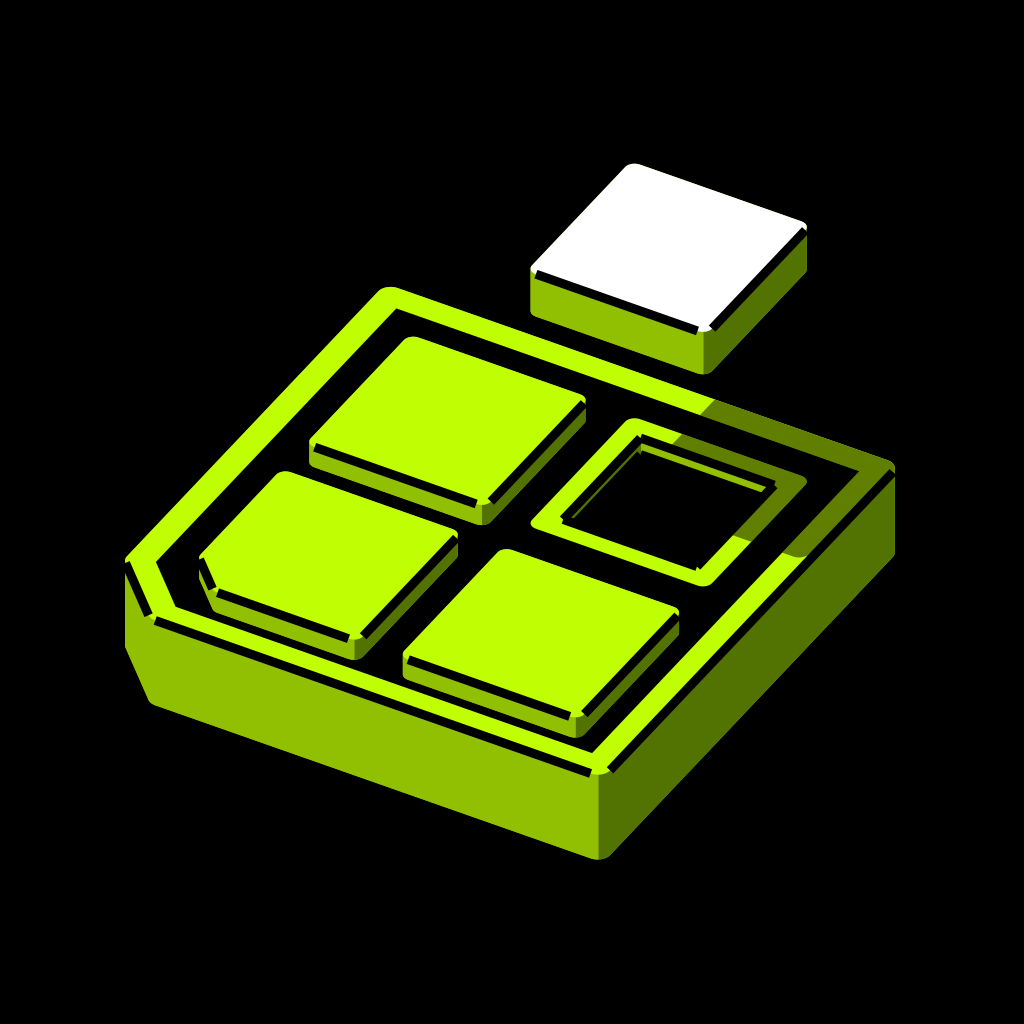
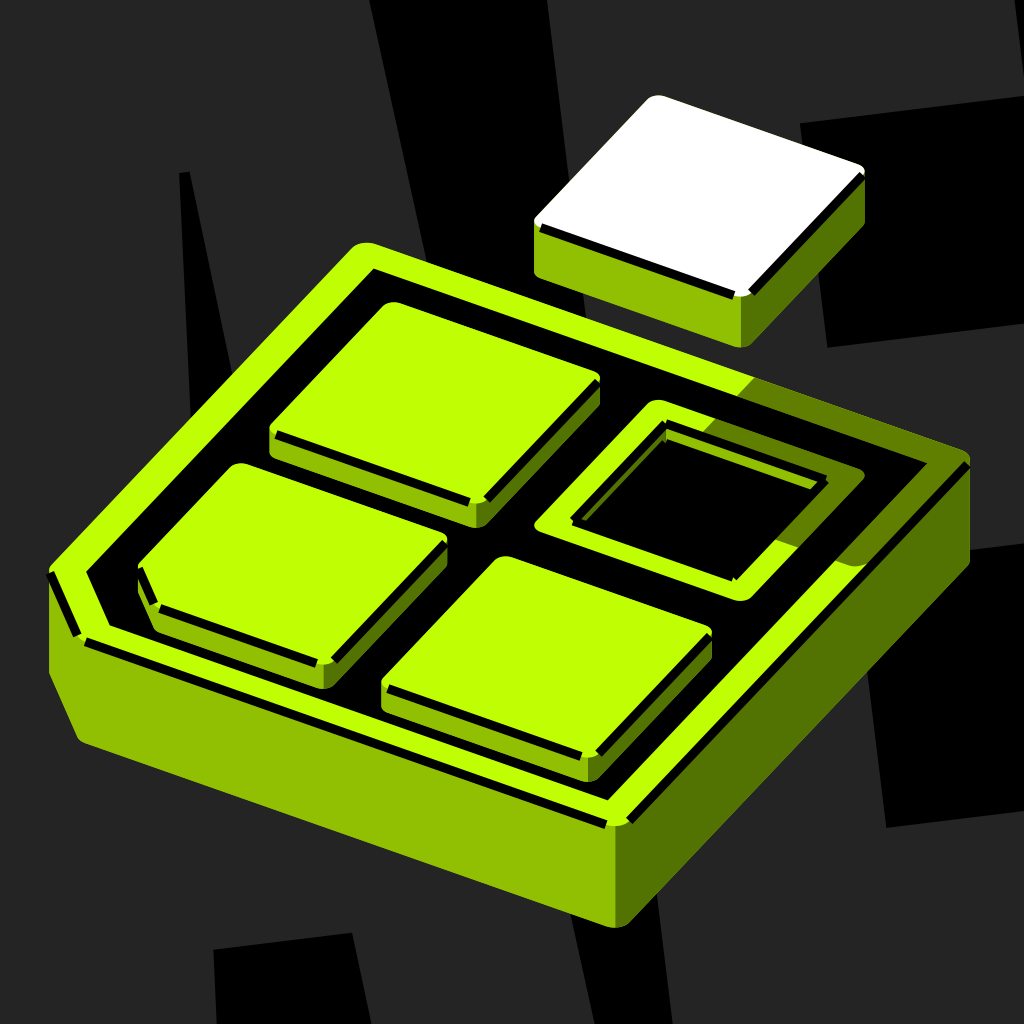
Update AE launcher artwork for 1.2.1

diff --git a/app/src/main/java/app/appextractor/MainActivity.kt b/app/src/main/java/app/appextractor/MainActivity.kt
@@ -353,7 +353,7 @@ private fun SettingsScreen(state: ExtractorState, model: ExtractorViewModel, sna
     }) { insets ->
         Box(Modifier.fillMaxSize().padding(insets), contentAlignment = Alignment.TopCenter) {
             LazyColumn(Modifier.widthIn(max = 720.dp).fillMaxSize(), contentPadding = PaddingValues(bottom = 28.dp)) {
-                item { PageHeading("SETTINGS", "设置与帮助", "V 1.2.0") }
+                item { PageHeading("SETTINGS", "设置与帮助", "V 1.2.1") }
                 item {
                     Column(Modifier.padding(20.dp)) {
                         SectionLabel("01", "导出位置")
@@ -421,7 +421,7 @@ private fun SettingsScreen(state: ExtractorState, model: ExtractorViewModel, sna
                             }
                         }
                         Spacer(Modifier.height(20.dp))
-                        Text("APPExtractor / 1.2.0", style = MaterialTheme.typography.labelSmall, color = colors.onSurfaceVariant)
+                        Text("APPExtractor / 1.2.1", style = MaterialTheme.typography.labelSmall, color = colors.onSurfaceVariant)
                     }
                 }
             }

diff --git a/scripts/prepare_launcher_icon.py b/scripts/prepare_launcher_icon.py
@@ -14,20 +14,20 @@ from pathlib import Path
 
 ROOT = Path(__file__).resolve().parents[1]
 SCALES = {"mdpi": 1, "hdpi": 1.5, "xhdpi": 2, "xxhdpi": 3, "xxxhdpi": 4}
-BACKGROUND = (0, 0, 0)
+BACKGROUND = (36, 36, 36)
 LAYER_DP = 108
 SAFE_RADIUS_DP = 33
 MARGIN_DP = 2
 
 
 def subject_radius(image) -> float:
-    """Farthest visible nonblack source pixel, including antialiasing."""
+    """Farthest lime/white subject pixel; dark grayscale artwork is background."""
     radius = 0.0
     pixels = image.load()
     for y in range(image.height):
         for x in range(image.width):
             r, g, b, alpha = pixels[x, y]
-            if alpha and max(r, g, b):
+            if alpha and ((g > r + 8 and g > b + 8) or (min(r, g, b) > 128 and max(r, g, b) - min(r, g, b) < 24)):
                 radius = max(radius, math.hypot(x + 0.5 - image.width / 2, y + 0.5 - image.height / 2))
     return radius
 
@@ -49,8 +49,8 @@ def prepare(source: Path, preview: bool = False, preview_dir: Path | None = None
 
     source_radius = subject_radius(artwork)
     if not source_radius:
-        raise ValueError("The supplied image has no visible nonblack artwork")
-    # The complete nonblack subject fits the guaranteed 66dp circular safe zone.
+        raise ValueError("The supplied image has no visible lime/white subject")
+    # The complete lime/white subject fits the guaranteed 66dp circular safe zone.
     # Round down to an even size so every density centers on whole pixels.
     artwork_dp = math.floor(min(LAYER_DP, (SAFE_RADIUS_DP - MARGIN_DP) * artwork.width / source_radius) / 2) * 2
     if artwork_dp < 2:
@@ -66,7 +66,7 @@ def prepare(source: Path, preview: bool = False, preview_dir: Path | None = None
         offset = (canvas_size - artwork_size) // 2
         foreground.alpha_composite(resized, (offset, offset))
         radius = subject_radius(foreground) / scale
-        assert radius < SAFE_RADIUS_DP, f"{density}: nonblack pixels must stay inside the safe circle"
+        assert radius < SAFE_RADIUS_DP, f"{density}: lime/white subject must stay inside the safe circle"
         target = resources / ("mipmap-" + density) / "ic_launcher_artwork.png"
         target.parent.mkdir(parents=True, exist_ok=True)
         foreground.save(target, optimize=True)
@@ -76,7 +76,7 @@ def prepare(source: Path, preview: bool = False, preview_dir: Path | None = None
         print(f"{target.relative_to(ROOT)}: {canvas_size}x{canvas_size}")
 
     if preview:
-        output_dir = preview_dir or ROOT / ".test-data" / "qa" / "v1.2.0"
+        output_dir = preview_dir or ROOT / ".test-data" / "qa" / "v1.2.1"
         output_dir.mkdir(parents=True, exist_ok=True)
         # Preview the normal 72dp visible mask, without changing source artwork.
         visible_size = 576
@@ -101,7 +101,8 @@ def prepare(source: Path, preview: bool = False, preview_dir: Path | None = None
         report = {"sourceSha256": hashlib.sha256(source_bytes).hexdigest(), "sourceSize": list(artwork.size),
                   "sourceSubjectRadiusPixels": source_radius, "artworkDp": artwork_dp,
                   "safeCircleDiameterDp": SAFE_RADIUS_DP * 2, "sourceCopiedExactly": True,
-                  "wholeImageUniformlyScaled": True, "densityChecks": checks}
+                  "wholeImageUniformlyScaled": True, "backgroundColor": "#242424",
+                  "criticalSubject": "lime and white; grayscale decoration remains in the whole image", "densityChecks": checks}
         (output_dir / "icon-verification.json").write_text(json.dumps(report, indent=2), encoding="utf-8")
         print(output_dir)
 

diff --git a/docs/QA.md b/docs/QA.md
@@ -1,16 +1,12 @@
-# APPExtractor 1.2.0 验证
+# APPExtractor 1.2.1 验证
 
-发布包：`APPExtractor-1.2.0.apk`，1,427,798 字节。
+发布包：`APPExtractor-1.2.1.apk`，1,443,686 字节。
 
[2 lines of base64/hex data omitted]
 
-- 设置页顺序：导出位置、存储清理、格式与权限、外观主题；主题选项位于最下面。
-- 外观支持跟随系统、浅色、深色；手动模式优先于系统，切换立即生效，关闭重启后保留选择。
-- Android 10（API 29）与 Android 14（API 34）模拟器检查了手动主题与系统相反、跟随系统、重启保存和系统栏。
-- 最终包检查主题底部位置、切换及 320dp 窄屏／1.5 倍字体可达性。
-- 图标使用用户提供的原图，原件逐字节保留；整张图等比缩放至 76dp，居中置于 108dp 图层和纯黑背景上。
-- 五种密度主体均位于 66dp 安全圆内；圆形、圆角方形预览与实际桌面图标已目视检查，白色悬浮块与底座完整。
-- 覆盖安装与原签名一致，默认导出文件夹保留；单包导出与原 APK 内容一致，旧文件未覆盖。
-- 发布构建及 Lint 通过，0 个静态错误；模拟器未发现崩溃。
+- 图标改用用户提供的 `AE.png`，原件逐字节保留；整图等比缩放，保留灰阶装饰背景、荧光绿主体与白色悬浮块。
+- 关键主体位于 66dp 安全圆内，五种屏幕密度检查通过；圆形和圆角方形预览已目视确认完整。
+- Android 14（API 34）模拟器实际覆盖安装 1.2.0 → 1.2.1 成功，桌面应用列表显示新图标，主体完整。
+- 发布签名与旧版一致；发布构建和 Android Lint 通过，0 个静态错误。
 
-本机记录：`dist/verification-1.2.0.json`。图标说明见 [ICON.md](ICON.md)。
+本机记录：`dist/verification-1.2.1.json`。图标说明见 [ICON.md](ICON.md)。

diff --git a/docs/ICON.md b/docs/ICON.md
@@ -1,12 +1,12 @@
 # 启动图标
 
-1.2.0 使用用户提供的黑底荧光绿图案。原图保存在 `assets/app-icon.png`，逐字节保留。
+1.2.1 使用用户提供的 `AE.png`，包含荧光绿主体、白色悬浮块与灰阶装饰背景。原图保存在 `assets/app-icon.png`，逐字节保留。
 
[2 lines of base64/hex data omitted]
 
-图标仅等比缩放和居中，不切割主体或重新绘制。Android 自适应图标使用纯黑背景及 108dp 前景层；整张原图占 76dp。主体（包含白色悬浮块）位于中心直径 66dp 的安全圆内，适配圆形、圆角方形等桌面遮罩。
+仅对整张图片等比缩放和居中，不重新绘制。Android 自适应图标使用 `#242424` 背景及 108dp 前景层，整图占 64dp。荧光绿与白色主体均位于中心直径 66dp 的安全圆内；桌面遮罩仅影响装饰背景边角，主体完整保留。
 
-`scripts/prepare_launcher_icon.py` 根据所有非黑主体像素的最远距离计算缩放比例，并检查五种屏幕密度。运行时无需 Pillow 或其他额外依赖。
+`scripts/prepare_launcher_icon.py` 根据荧光绿和高亮白色像素的最远距离计算缩放比例，并检查五种屏幕密度。深灰／黑色装饰背景保留在原图中，不作为主体边界计算。运行时无需 Pillow 或其他额外依赖。
 
 重新生成资源和本机预览：
 
@@ -14,4 +14,4 @@ SHA-256：`b9f5819c28f90d09b0199aaf7c63eeea1ad51f029a20f98e05ce5b463949ad0a`
 python scripts/prepare_launcher_icon.py --preview
 ```
 
-生成脚本需要 Pillow。本机圆形和圆角方形预览及逐密度检查记录输出到 `.test-data/qa/v1.2.0/`，不打入 APK。
+生成脚本需要 Pillow。圆形、圆角方形预览及逐密度检查记录输出到 `.test-data/qa/v1.2.1/`，不打入 APK。

diff --git a/docs/USAGE.md b/docs/USAGE.md
@@ -4,7 +4,7 @@
 
 ## 使用
 
-安装 `dist/APPExtractor-1.2.0.apk`，搜索应用，点击应用右侧的下载箭头图标，选择本机保存位置；读屏名称为「提取 + 应用名称」。可切换用户/系统应用，按名称、体积或最近更新时间排序；点击「多选」可批量导出。
+安装 `dist/APPExtractor-1.2.1.apk`，搜索应用，点击应用右侧的下载箭头图标，选择本机保存位置；读屏名称为「提取 + 应用名称」。可切换用户/系统应用，按名称、体积或最近更新时间排序；点击「多选」可批量导出。
 
 在「设置与帮助 → 默认导出文件夹」选择一个本机文件夹，此后提取会直接保存到该文件夹，重启后仍有效。同名文件会保留并生成新文件名。可更换文件夹，或选择「每次询问」恢复逐次选择保存位置。系统限制部分根目录作为目标时，请新建一个子文件夹。
 
@@ -44,7 +44,7 @@
 .\BUILD.cmd
 ```
 
-签名发布版输出到 `dist/APPExtractor-1.2.0.apk`。发布版开启 R8 和资源裁剪；构建默认最多两个工作线程。
+签名发布版输出到 `dist/APPExtractor-1.2.1.apk`。发布版开启 R8 和资源裁剪；构建默认最多两个工作线程。
 
 ## 源码
 

diff --git a/README.md b/README.md
@@ -19,4 +19,4 @@
 
 普通应用导出 APK，分包应用完整导出 APKS，批量提取导出 ZIP。
 
-[下载 APK](https://github.com/Pitohui-Dichrous/APPExtractor/releases/latest/download/APPExtractor-1.2.0.apk) · [使用说明](docs/USAGE.md)
+[下载 APK](https://github.com/Pitohui-Dichrous/APPExtractor/releases/latest/download/APPExtractor-1.2.1.apk) · [使用说明](docs/USAGE.md)
